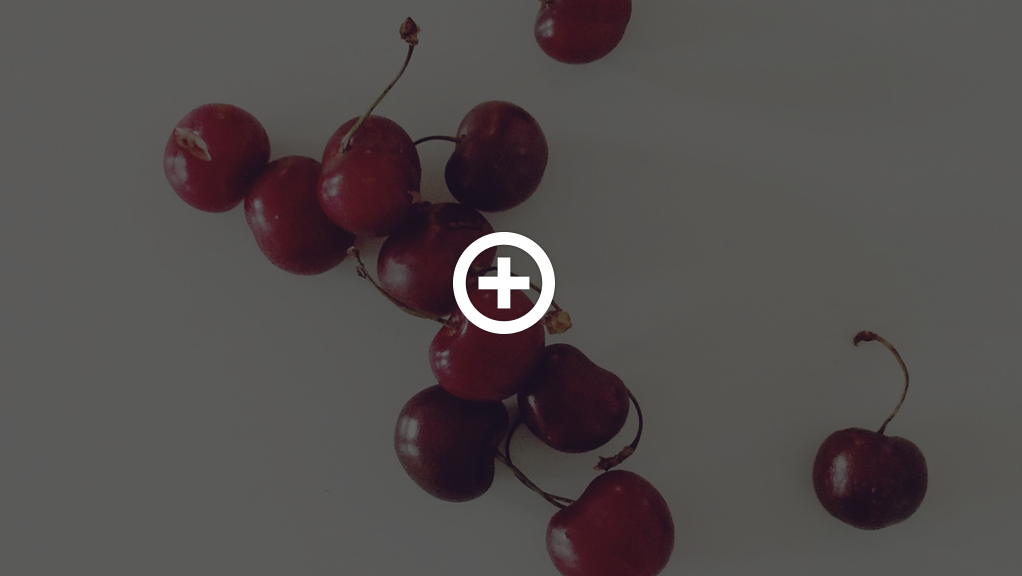
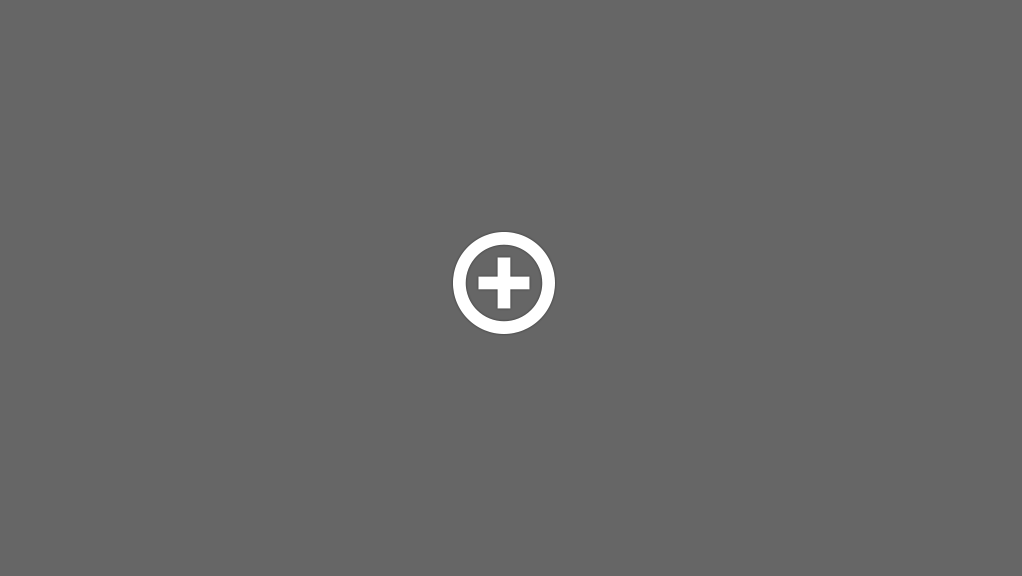
Update template2 (add image content text)

diff --git a/server/public/javascripts/template/template2.js b/server/public/javascripts/template/template2.js
@@ -41,8 +41,17 @@
         html += '</a>';
         html += '</div>';
         // TODO: 입력하는 HTML 추가!!
-        html += '<div>';
-        html += 'aaaaa';
+        html += '<div class="photo-image-box-text">';
+        html += '<p class="photo-image-box-title is-view-mode view-item hide">Title</p>';
+        html += '<input type="text" class="photo-image-box-title is-edit-mode edit-item" value="Title">';
+        html += '<div class="photo-image-box-content-container">';
+        html += '<div class="photo-image-box-content is-view-mode view-item hide">';
+        html += '<p>Contents</p>';
+        html += '</div>';
+        html += '<textarea class="photo-image-box-content is-edit-mode edit-item">';
+        html += 'Contents';
+        html += '</textarea>';
+        html += '</div>';
         html += '</div>';
 
         return html;

diff --git a/server/public/stylesheets/template/template2.css b/server/public/stylesheets/template/template2.css
@@ -208,3 +208,31 @@ i.image-delete-btn {
     height: auto;
 }
 
+.photo-image-box-text {
+    width: 800px;
+    min-height: 100px;
+    padding: 12px;
+    margin: 0px auto;
+    margin-top: 20px;
+    margin-bottom: 60px;
+    background-color: #0070a3;
+}
+
+.photo-image-box-title {
+    text-align: center;
+    width: 400px;
+    min-height: 24px;
+    margin: 0px auto;
+    margin-bottom: 15px;
+}
+
+.photo-image-box-content {
+    text-align: center;
+    width: 760px;
+    min-height: 30px;
+    margin: 0px auto;
+}
+
+.photo-image-box-content > p {
+    margin: 0px auto;
+}
